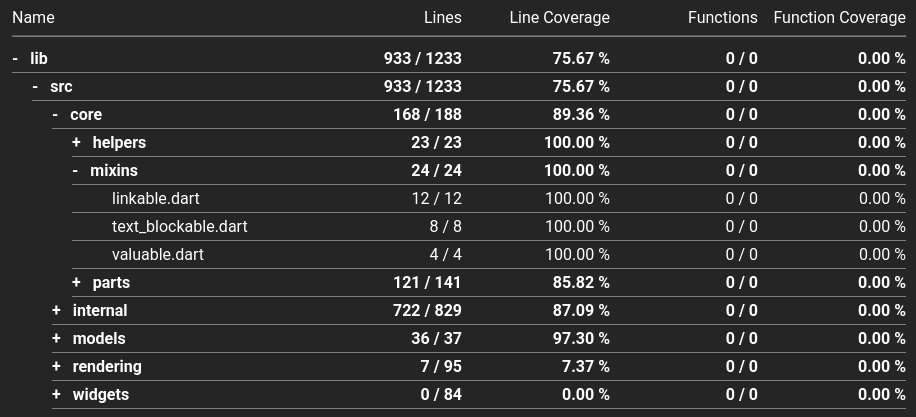
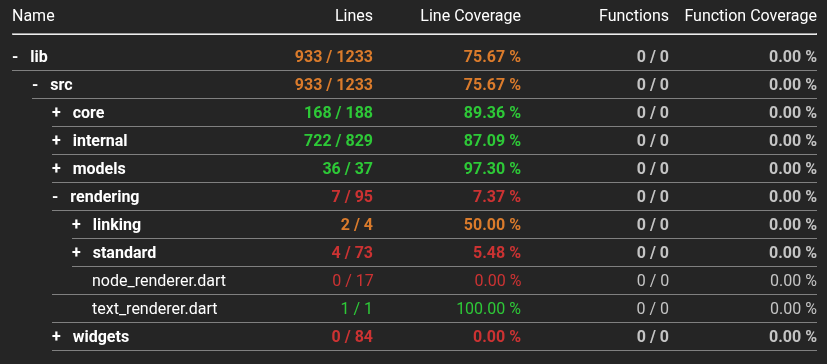
docs: update docs for html changes

Changed region(s): [[0.0, 0.0302, 0.9976, 0.967]]

diff --git a/README.md b/README.md
@@ -123,6 +123,10 @@ This will ignore:
 4. Anything with `_hide` in the name
 5. Anything in the `mocks` folder that ends with `.dart`
 
+### Other flags
+
+You can use the `--html-use-bars` flag to change the HTML to use progress bars instead of a numerical percentage.
+
 ### Examples
 
 ```bash
@@ -150,6 +154,7 @@ lovecov my_lcov.info html --output-path=/my/path/to/report.html --ignore="standa
 ### HTML
 
 ![HTML](docs/html.png)
+![HTML](docs/html_bars.png)
 
 ### CSV
 
